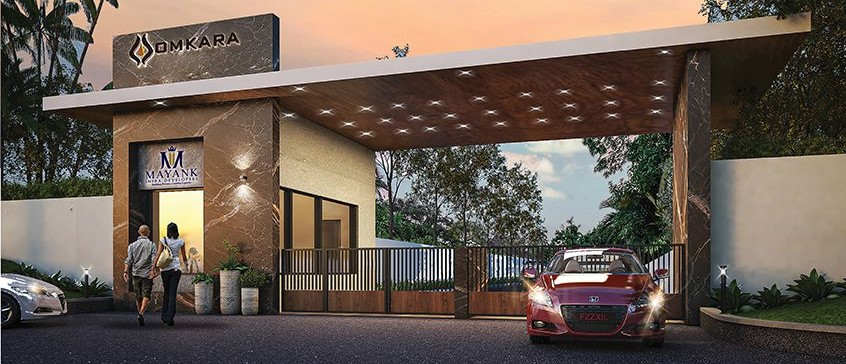
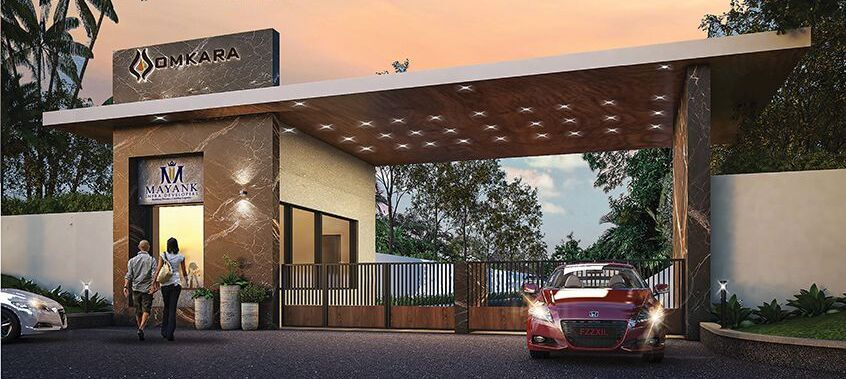
Home Page Ui Hero Image

diff --git a/index.html b/index.html
@@ -38,7 +38,7 @@
     </nav>
 
     <!-- Hero Section -->
-    <section id="home" class="h-screen bg-contain bg-center relative"
+    <section id="home" class="h-screen bg-cover bg-center relative"
         style="background-image: url('./assets/Images/Hero.jpg');">
         <div class="absolute inset-0 bg-black opacity-50"></div>
         <div class="relative h-full flex flex-col justify-center items-center text-center text-white tracking-wider">
@@ -101,7 +101,7 @@
                     <p>Hyderabad, Telangana</p>
                     <p>Email: <a href="mailto:info@mayankinfra.com"
                             class="hover:text-[#A57D42]">info@mayankinfra.com</a></p>
-                    <p>Phone: <a href="tel:+919876543210" class="hover:text-[#A57D42]">+91 98765 43210</a></p>
+                    <!-- <p>Phone: <a href="tel:+919876543210" class="hover:text-[#A57D42]">+91 98765 43210</a></p> -->
                 </div>
                 <!-- Quick Links -->
                 <div>
